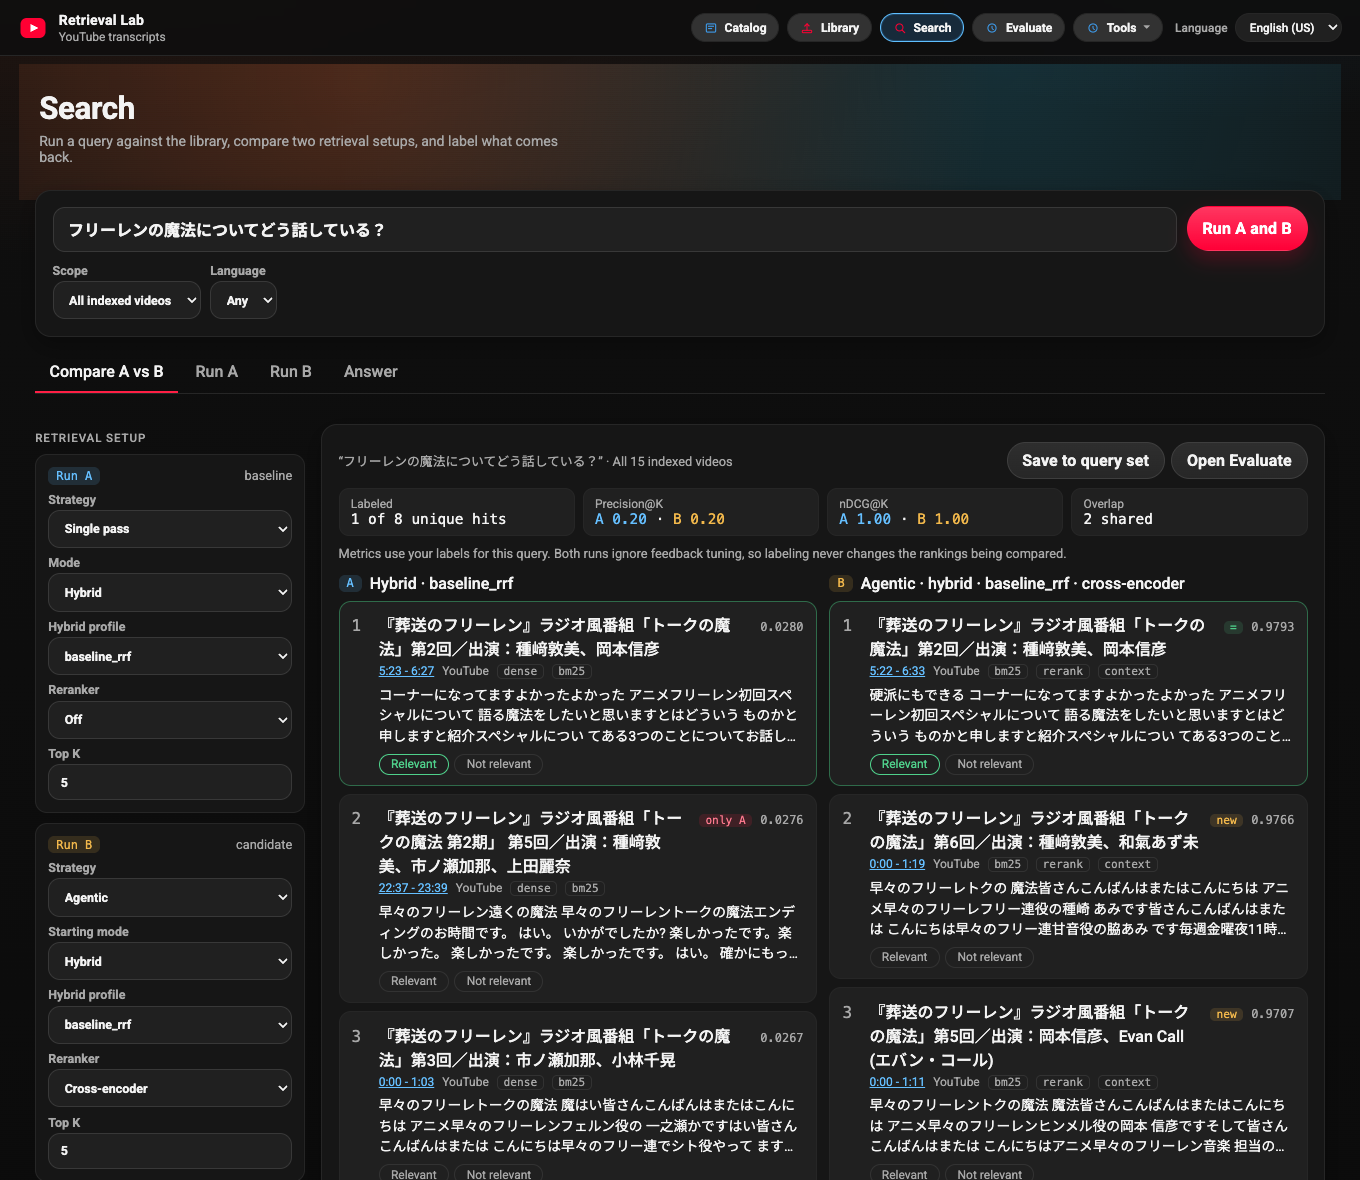
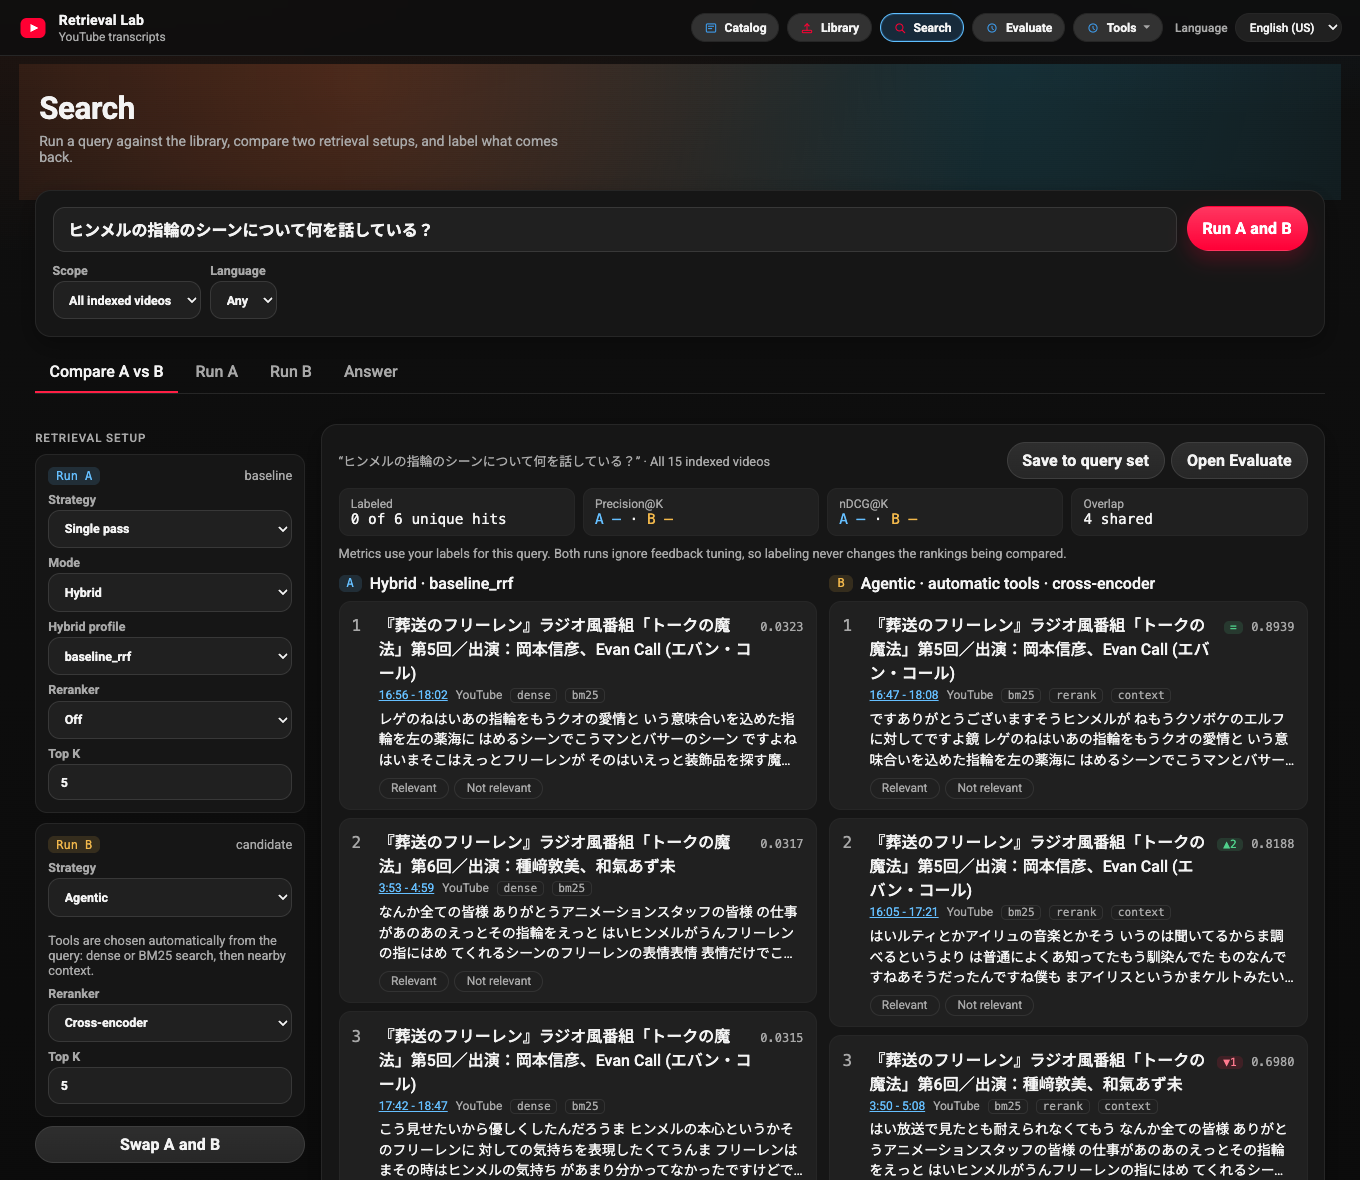
docs: refresh screenshots for the current Search, Library, and Evaluate
Retake Search (agentic runs show automatic tools) and Library from the real
backend, add Evaluate with a query set saved from Search, and remove five
screenshots of the old UI that no document references.

diff --git a/docs/evaluation.md b/docs/evaluation.md
@@ -46,6 +46,8 @@ runs skip feedback tuning, so labeling does not change the rankings being
 compared. **Save to query set** adds the query to the **Saved from Search**
 query set in Evaluate so it can be re-run later.
 
+![Evaluate showing the Saved from Search query set with queries saved from Search](media/evaluate-saved-from-search.png)
+
 ![Search comparing two runs with relevance labels and per-query metrics](media/search-workbench.png)
 
 ## Evaluate page
@@ -106,4 +108,4 @@ Inspect the output under **Tools → Data quality** (`http://127.0.0.1:8000/evid
 - Labels come from a single reviewer; inter-rater agreement and adjudication UI
   are not implemented.
 - Answer quality (citation precision, faithfulness, abstention correctness) is
-  not yet scored; see [`TODOS.md`](../TODOS.md).
+  not yet scored.
